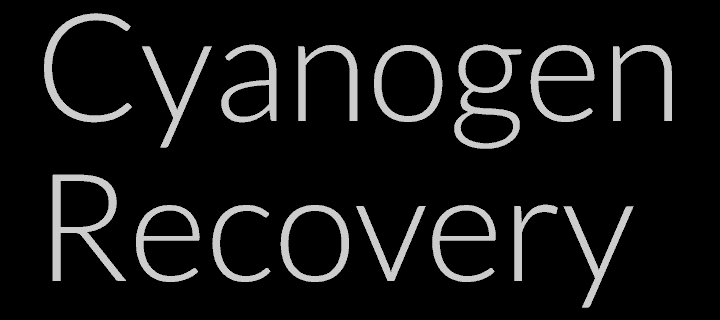
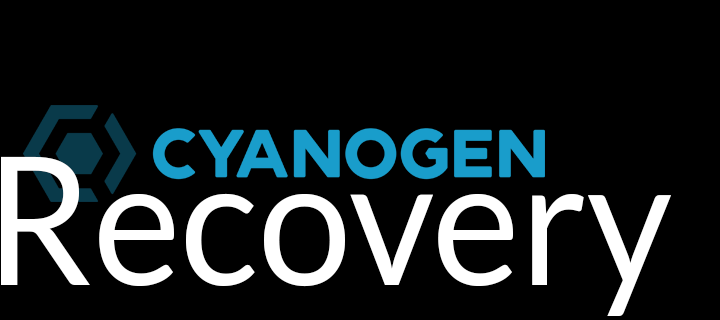
Basic assets for header and font
Looks a little cleaner, reads font image correctly now.

Changed region(s): [[0.0, 0.0312, 0.9472, 1.0]]

diff --git a/screen_ui.cpp b/screen_ui.cpp
@@ -223,7 +223,7 @@ int ScreenRecoveryUI::draw_header_icon()
     gr_surface surface = headerIcon;
     int iw = gr_get_width(surface);
     int ih = gr_get_height(surface);
-    int ix = (gr_fb_width() - iw) / 2;
+    int ix = 25;
     int iy = 0;
     int header_pos_y = 0;
     int header_width = gr_get_width(surface);
@@ -239,11 +239,11 @@ void ScreenRecoveryUI::draw_menu_item(int textrow, const char *text, int selecte
         gr_fill(0, (textrow)*char_height,
                 gr_fb_width(), (textrow+3)*char_height-1);
         SetColor(MENU_SEL_FG);
-        gr_text(4, (textrow+1)*char_height-1, text, 0);
+        gr_text(25, (textrow+1)*char_height-1, text, 0);
         SetColor(MENU);
     }
     else {
-        gr_text(4, (textrow+1)*char_height-1, text, 0);
+        gr_text(25, (textrow+1)*char_height-1, text, 0);
     }
 }
 
